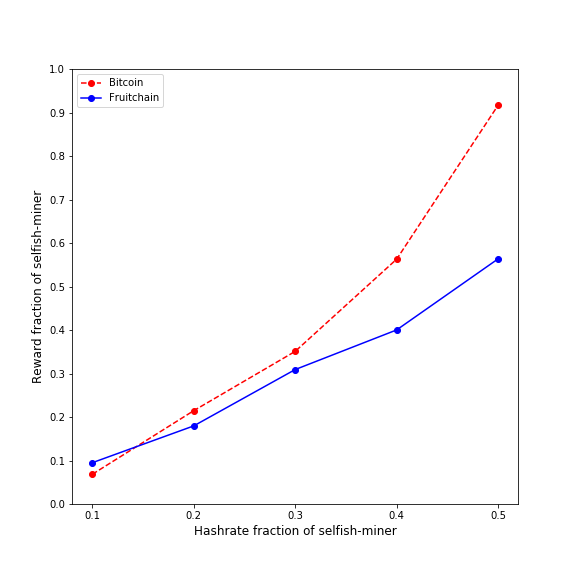
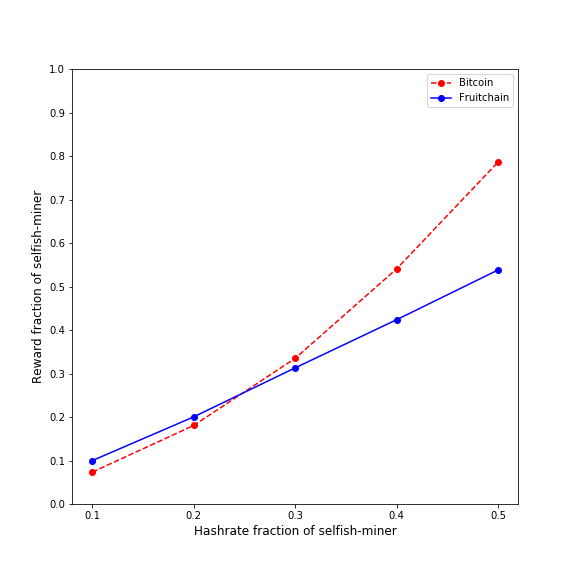
null

diff --git a/fruitchain.py b/fruitchain.py
@@ -164,6 +164,7 @@ class Environment:
 
         for b in chain[:self.k+1]:
             self.nFruitsInWindow += b.nFruits + 1 # +1 is the implicity fruit
+
         for b in chain[self.k:]:
             # direct reward
             x = b.reward
@@ -175,13 +176,13 @@ class Environment:
             for _b in chain[b.height-1-self.k : b.height-1]:
                 for f in _b.fruits:
                     dL = 0
-                    if _b.minerID == 1:
-                        dL = self.c3 # attacker gets maximal freshness bonus
+                    if f.minerID == 1:
+                        dL = self.c3 # attacker gets maximum freshness bonus of his fruits
                     self.nodes[f.minerID].totalRewardFTC += n0*(1 - self.c2 + dL)
                     self.nodes[_b.minerID].totalRewardFTC += n0*(self.c2 - dL)
                 self.nodes[_b.minerID].totalRewardFTC += n0 # reward of the implicit fruit goes to block miner
             # slide the window and adjust the number of fruits
-            self.nFruitsInWindow -= ( chain[b.height-1-self.k].nFruits + 1 )
+            self.nFruitsInWindow -= ( chain[b.height-self.k-1].nFruits + 1 )
             self.nFruitsInWindow += ( b.nFruits + 1 )
 
     def saveStatistics(self):
